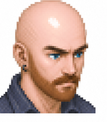
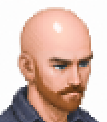
Cross-fade between the portrait's look frames
A 120ms fade rather than a hard cut, to try softening the switch.

Two layers, and the lower one stays fully opaque -- the incoming frame
fades in *over* the outgoing one rather than the two fading past each
other. Cross-fading both would leave the composite short of full opacity
through the middle of every transition, and since the frames are opaque
white-backed art on a black panel that reads as the portrait dipping
darker on each glance.

Both layers advance in a single state update. If `under` took the outgoing
frame in a later commit than `over` took the incoming one, the pair would
repaint out of step and the portrait would flick back to an older frame
for a frame.

The incoming layer is keyed by direction, so each glance mounts a fresh
element and the CSS animation runs from the start. Restarting an animation
on a persistent node means clearing it and forcing a reflow in between,
which is easy to get subtly wrong; a remount cannot half-apply. The frames
are already preloaded, so the new node has nothing to fetch.

FADE_MS in Portrait.tsx is the one dial, and it feeds the stylesheet as a
custom property so the two cannot drift apart.

Claude-Session: https://claude.ai/code/session_01CjnpaYAr8vizShw4o1xh1Z

diff --git a/frontend/src/components/Portrait/Portrait.tsx b/frontend/src/components/Portrait/Portrait.tsx
@@ -1,6 +1,7 @@
-import { useEffect, useRef } from "react";
+import { useEffect, useLayoutEffect, useRef, useState } from "react";
 import { useContext } from "../../context/context";
-import useLookDirection, { LOOK_DIRECTIONS, lookFrameSrc } from "../../hooks/useLookDirection";
+import useLookDirection, { LOOK_DIRECTIONS, lookFrameSrc, type LookDirection } from "../../hooks/useLookDirection";
+import styles from "./Portrait.module.scss";
 import {
     resolvePortrait,
     PORTRAIT_SHEET,
@@ -30,13 +31,34 @@ interface PortraitProps {
  * only exists while this portrait is the one on screen — a character portrait
  * mounts no tracking at all.
  */
+/** How long a glance takes to cross-fade. Short enough to feel like a reaction. */
+const FADE_MS = 120;
+
 const LookingPortrait: React.FC<{ src: string; width: number; className?: string; alt: string }> = ({ src, width, className, alt }) => {
-    const ref = useRef<HTMLImageElement>(null);
+    const ref = useRef<HTMLDivElement>(null);
     const direction = useLookDirection(ref);
 
+    /**
+     * The two layers. `under` is whatever was last shown and stays fully
+     * opaque; `over` is the frame fading in on top of it. Advancing both in a
+     * single state update matters: `under` has to take the outgoing frame in
+     * the same commit that `over` takes the incoming one, or the pair repaint
+     * out of step and the portrait flicks back to an older frame for a frame.
+     */
+    const [layers, setLayers] = useState<{ under: LookDirection; over: LookDirection }>(
+        { under: "center", over: "center" }
+    );
+
+    // Layout effect, not an effect: this runs on the same commit that changed
+    // the direction, so the swap is painted once rather than showing the old
+    // frame for a beat first.
+    useLayoutEffect(() => {
+        setLayers(prev => (prev.over === direction ? prev : { under: prev.over, over: direction }));
+    }, [direction]);
+
     // Decode all nine up front. Without this the first glance in each direction
-    // swaps to an image the browser has not fetched, and the portrait blinks
-    // empty for a frame on its way round.
+    // fades in an image the browser has not fetched, so the transition plays
+    // over nothing and lands as a hard cut.
     useEffect(() => {
         for (const frame of LOOK_DIRECTIONS) {
             const preload = new Image();
@@ -44,22 +66,38 @@ const LookingPortrait: React.FC<{ src: string; width: number; className?: string
         }
     }, []);
 
+    // `src` is the portrait shipped in the data file, used if a look frame is
+    // ever missing, so a 404 shows the face rather than a broken image.
+    const onError = (event: React.SyntheticEvent<HTMLImageElement>) => {
+        event.currentTarget.src = src;
+    };
+
     return (
-        <img
+        <div
             ref={ref}
-            src={lookFrameSrc(direction)}
-            // The nine frames differ only in where the eyes point, so React
-            // must not treat a direction change as a new element -- keying it
-            // by src would remount and refetch on every glance.
-            alt={alt}
-            width={width}
-            className={`object-contain ${className ?? ""}`}
+            role="img"
+            aria-label={alt}
             data-look={direction}
-            // `src` is the portrait shipped in the data file. It is the fallback
-            // if a look frame is ever missing, so a 404 shows the face rather
-            // than a broken image.
-            onError={event => { event.currentTarget.src = src; }}
-        />
+            className={`${styles.look} ${className ?? ""}`}
+            style={{ width: `${width}px`, "--portrait-fade": `${FADE_MS}ms` } as React.CSSProperties}
+        >
+            <img src={lookFrameSrc(layers.under)} alt="" aria-hidden className={styles.frame} onError={onError} />
+            {/*
+              * Keyed by direction so each glance mounts a fresh element and the
+              * CSS animation runs from the start. Restarting an animation on a
+              * persistent node means clearing it and forcing a reflow between,
+              * which is easy to get subtly wrong; a remount cannot half-apply.
+              * The frames are preloaded, so the new node has nothing to fetch.
+              */}
+            <img
+                key={layers.over}
+                src={lookFrameSrc(layers.over)}
+                alt=""
+                aria-hidden
+                className={`${styles.frame} ${styles.incoming}`}
+                onError={onError}
+            />
+        </div>
     );
 };
 

diff --git a/frontend/src/components/Portrait/Portrait.module.scss b/frontend/src/components/Portrait/Portrait.module.scss
@@ -1,0 +1,35 @@
+/*
+ * The look-at-cursor portrait crossfades between its nine frames.
+ *
+ * Two layers, and the lower one is always fully opaque: the incoming frame
+ * fades in *over* the outgoing one rather than the two fading past each other.
+ * Cross-fading both would leave the composite short of full opacity in the
+ * middle of every transition -- the frames are opaque white-backed art on a
+ * black panel, so that reads as the portrait dipping darker on each glance.
+ */
+.look {
+    position: relative;
+}
+
+.frame {
+    display: block;
+    width: 100%;
+    height: auto;
+}
+
+.incoming {
+    position: absolute;
+    inset: 0;
+    // Duration comes from the component so the two cannot drift apart
+    animation: portraitCrossFade var(--portrait-fade) ease-out;
+}
+
+@keyframes portraitCrossFade {
+    from {
+        opacity: 0;
+    }
+
+    to {
+        opacity: 1;
+    }
+}
